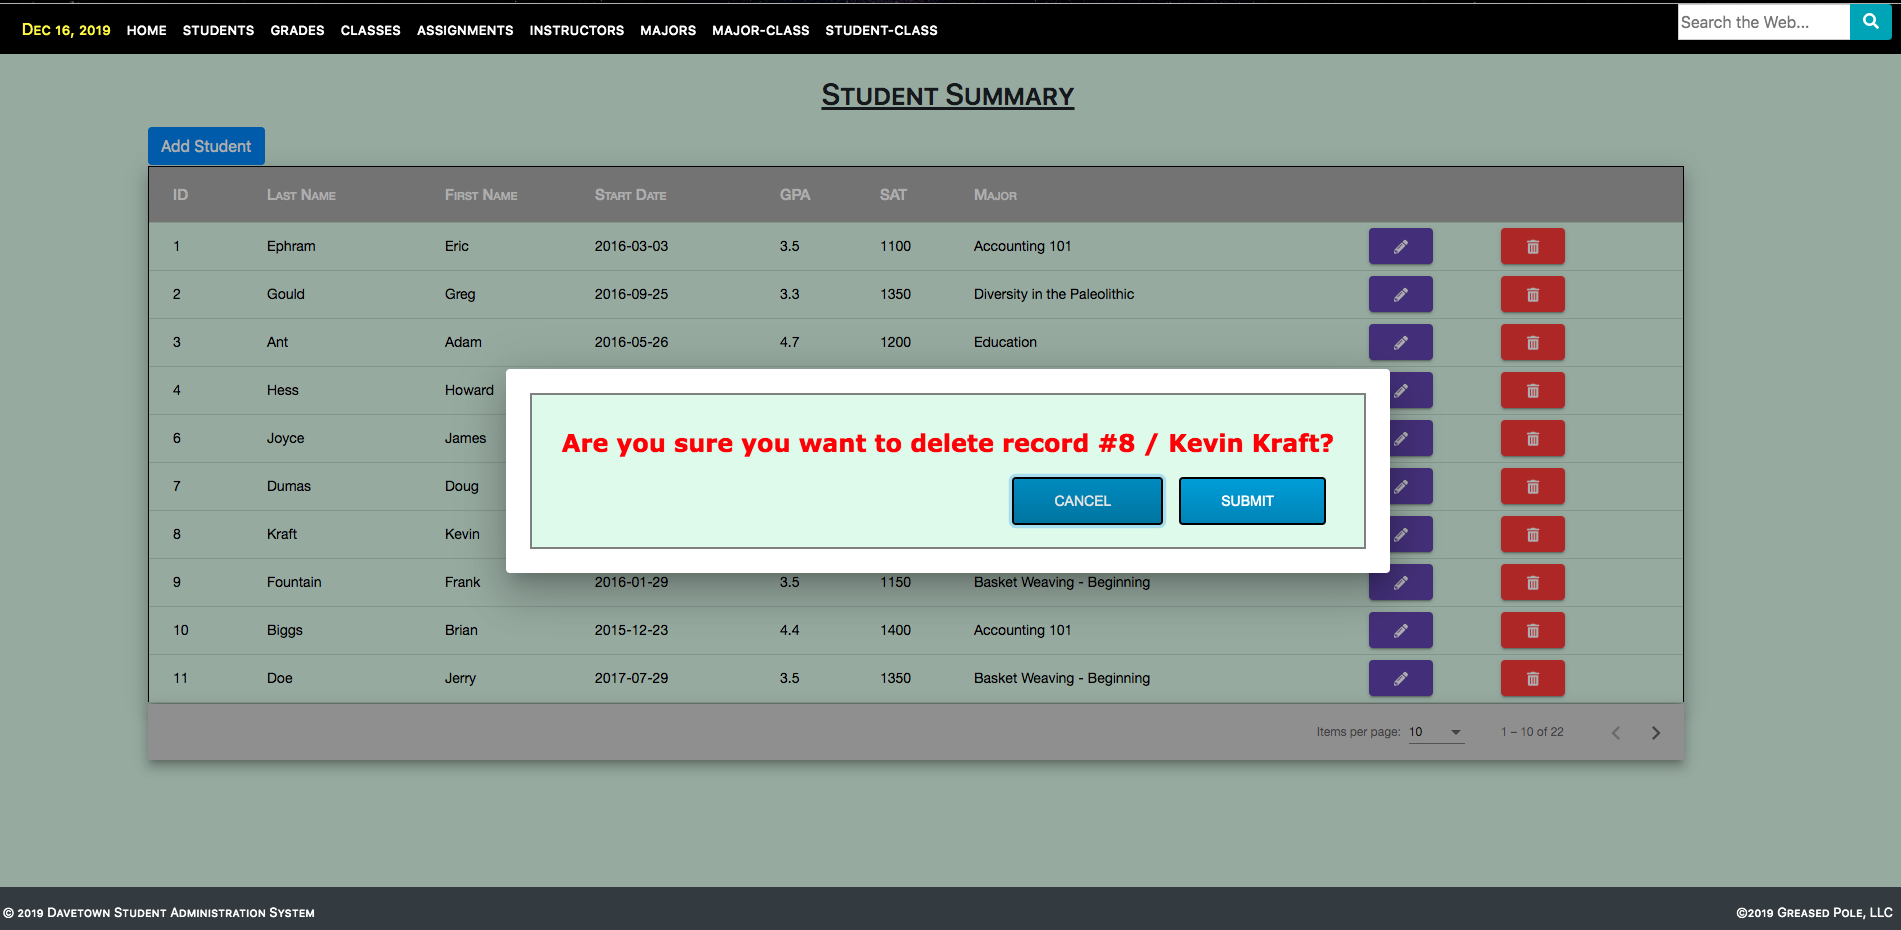
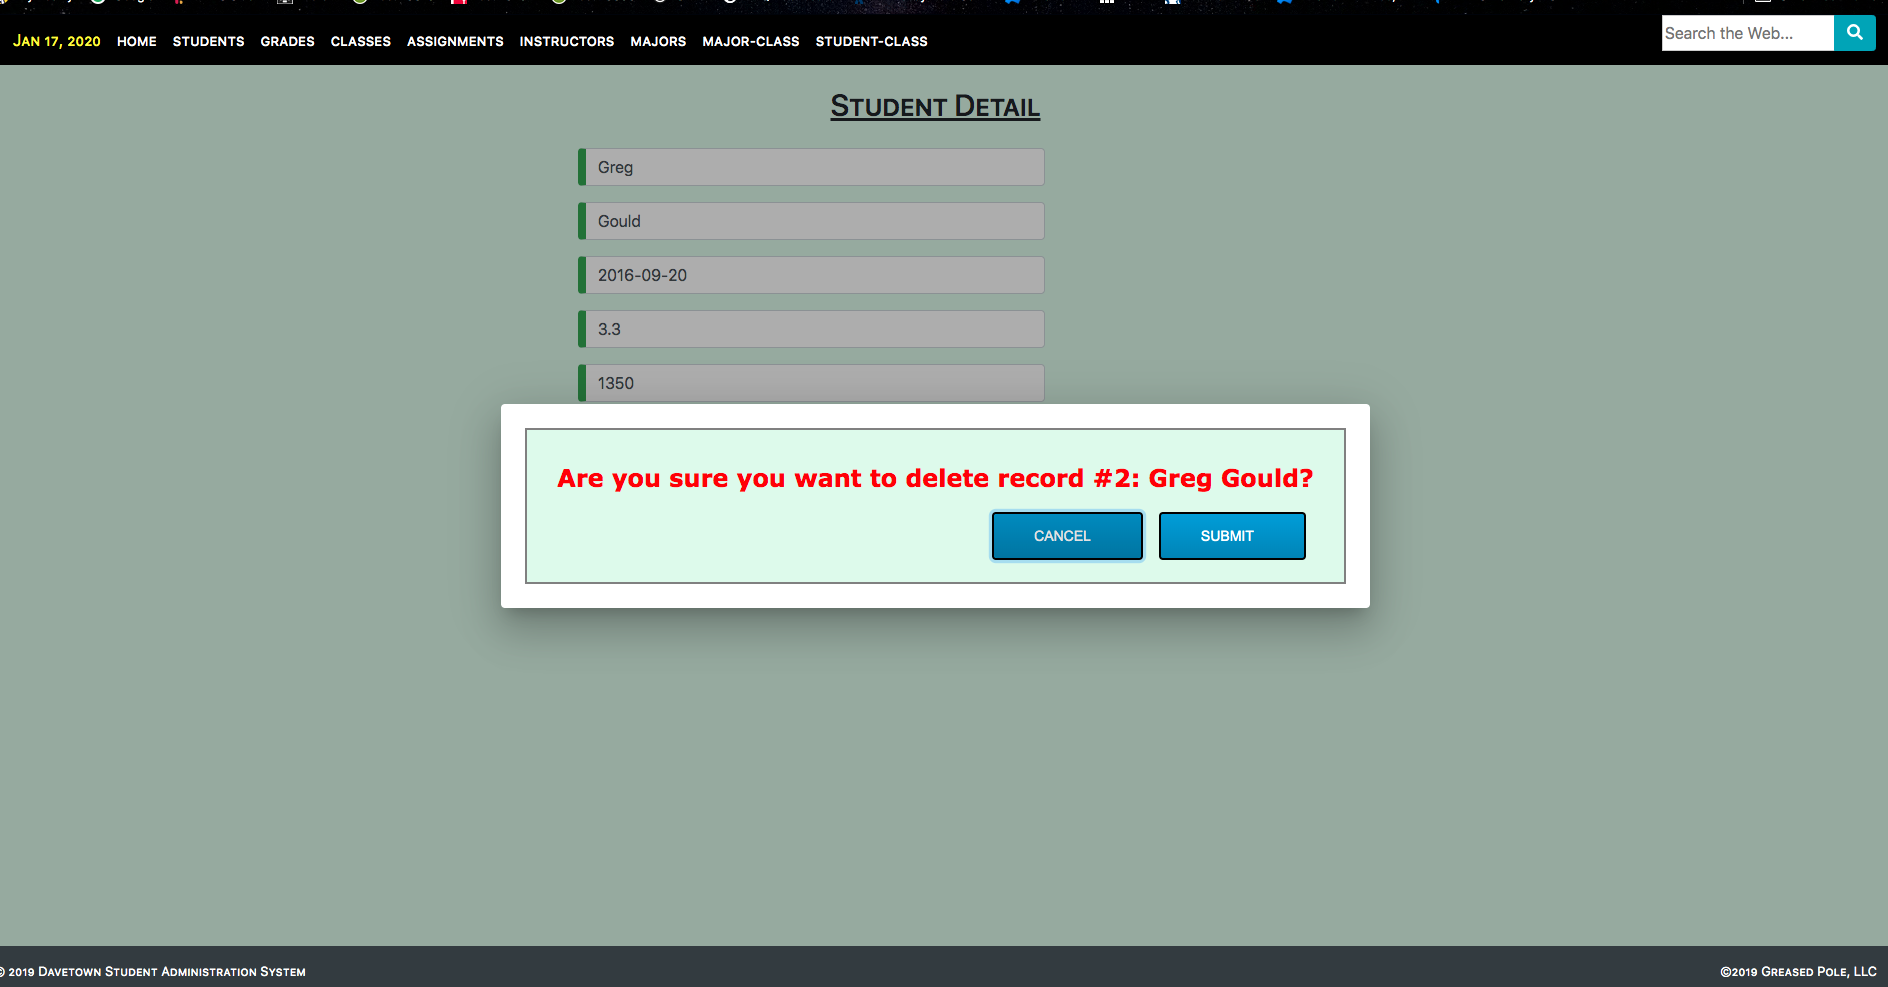
Updated README.md and screen shots to reflect improvements

diff --git a/README.md b/README.md
@@ -189,6 +189,13 @@ If you don't use the --open then you can launch your angular landing page by typ
 # ___________________________________________________________
 # Change Log
 
+## January 2020
+
+* Improved routing and clean up code
+* Implemented clicking on a summary table row takes user to the edit screen
+* Removed all of the old-style edit/delete buttons from the summary screens and moved them into the edit detail screens
+* Made the delete button only visible and enabled when in edit mode
+
 ## December 2019
 
 * Upgraded all of the form screens to provide a more streamlined UX
